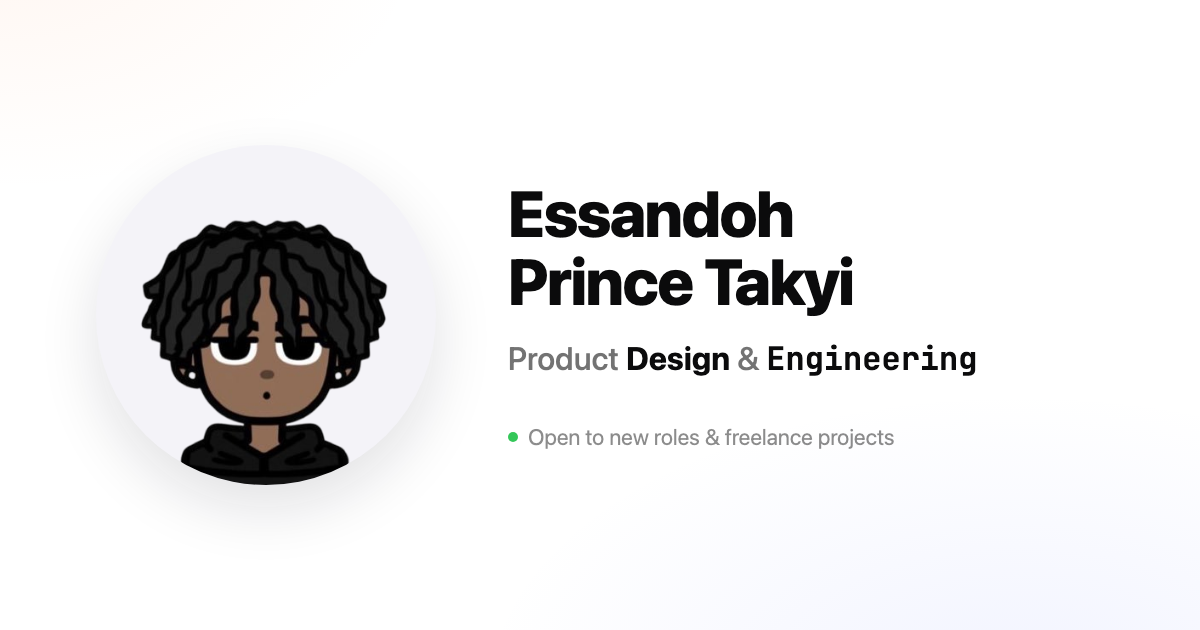
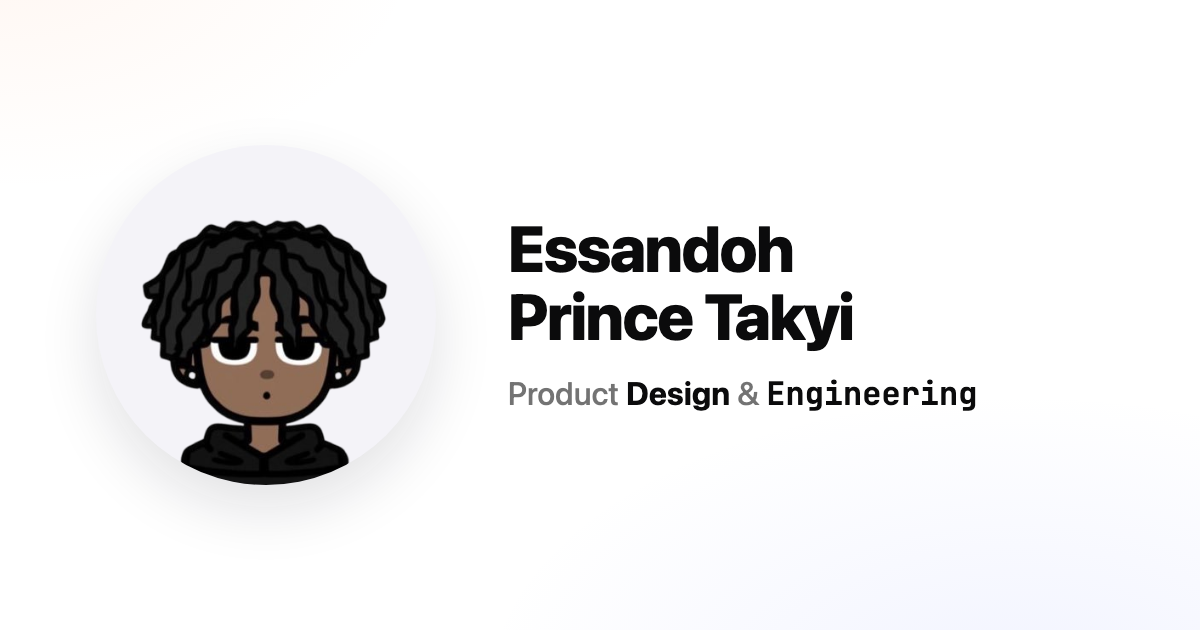
Faster first videos, phone loading shimmer, simpler preview card
- First-row phone videos buffer during the splash (splash waits for them, still capped at 3.5s); other videos attach their source only when about a screen away. First videos playing: 8.2s -> 4.0s on 20 Mbps.
- Shimmer inside phone frames until the video/screenshot's first frame loads
- Link preview image: drop the 'Open to new roles' line

Changed region(s): [[0.4008, 0.3016, 0.8325, 0.7238]]

diff --git a/src/components/ProjectCard.tsx b/src/components/ProjectCard.tsx
@@ -4,8 +4,10 @@ import FlipStack from './FlipStack'
 import ProjectLinkIcon, { getProjectLinkTooltip } from './ProjectLinkIcon'
 import type { Project } from '../types/project'
 
-/** Muted looping screen recording that only downloads/plays while on screen,
- * so a page full of cards doesn't stream every video at once. */
+/** Muted looping screen recording. `eager` ones (the first screen) start
+ * buffering immediately, i.e. while the splash is still up; the rest attach
+ * their source only once they're about a screen away, so a page full of
+ * cards doesn't fight the first videos for bandwidth. Plays while visible. */
 function DemoVideo({
   src,
   poster,
@@ -13,7 +15,9 @@ function DemoVideo({
   onAspect,
   loop = true,
   onEnded,
+  eager = false,
 }: {
+  eager?: boolean
   src: string
   poster?: string
   className?: string
@@ -23,9 +27,17 @@ function DemoVideo({
   onEnded?: () => void
 }) {
   const ref = useRef<HTMLVideoElement>(null)
+  const [near, setNear] = useState(eager)
   useEffect(() => {
     const el = ref.current
-    if (!el) return
+    if (!el || near) return
+    const io = new IntersectionObserver(([e]) => e.isIntersecting && setNear(true), { rootMargin: '100% 0px' })
+    io.observe(el)
+    return () => io.disconnect()
+  }, [near])
+  useEffect(() => {
+    const el = ref.current
+    if (!el || !near) return
     const observer = new IntersectionObserver(
       ([entry]) => {
         if (entry.isIntersecting) el.play().catch(() => {})
@@ -35,14 +47,17 @@ function DemoVideo({
     )
     observer.observe(el)
     return () => observer.disconnect()
-  }, [])
+  }, [near])
   return (
     <video
       ref={ref}
       className={className}
-      src={src}
+      src={near ? src : undefined}
       poster={poster}
-      preload="metadata"
+      preload={eager ? 'auto' : 'metadata'}
+      data-eager={eager || undefined}
+      // Marks the frame loaded so the phone's shimmer fades out (CSS :has).
+      onLoadedData={(e) => e.currentTarget.classList.add('is-ready')}
       onLoadedMetadata={(e) => {
         const v = e.currentTarget
         if (v.videoWidth && v.videoHeight) onAspect?.(v.videoWidth / v.videoHeight)
@@ -71,8 +86,11 @@ let uid = 0
 export default function ProjectCard({
   project,
   onOpen,
+  eager = false,
 }: {
   project: Project
+  /** First-screen card: buffer its video right away (during the splash). */
+  eager?: boolean
   /** Desktop-only: opens the full detail overlay at the currently shown screenshot. */
   onOpen?: (initialIndex: number) => void
 }) {
@@ -361,7 +379,7 @@ export default function ProjectCard({
         ) : project.demoVideo && project.platform === 'mobile' ? (
           <div className="app-card-phone-wrap">
             <div className="app-card-phone-frame app-card-phone-frame--device app-card-device">
-              <DemoVideo src={project.demoVideo} poster={project.demoPoster ?? project.images[0]} />
+              <DemoVideo src={project.demoVideo} poster={project.demoPoster ?? project.images[0]} eager={eager} />
               <span className="app-card-device-buttons" aria-hidden="true" />
             </div>
           </div>
@@ -401,6 +419,7 @@ export default function ProjectCard({
                   className={i === index ? 'is-current' : ''}
                   loading={i === 0 ? 'eager' : 'lazy'}
                   decoding="async"
+                  onLoad={(e) => e.currentTarget.classList.add('is-ready')}
                 />
               ))}
               <span className="app-card-device-buttons" aria-hidden="true" />

diff --git a/src/styles/profile.css b/src/styles/profile.css
@@ -584,6 +584,35 @@ a:focus-visible > .roll .roll-bottom {
   object-fit: fill;
 }
 
+/* Loading shimmer over the screen until its first frame is in (the video
+   or screenshot gets .is-ready on load). Sits under the Dynamic Island. */
+.project-grid--mobile .app-card .app-card-device::before {
+  content: '';
+  position: absolute;
+  z-index: 3;
+  inset: var(--bezel);
+  border-radius: calc(var(--phone-w) * 0.149);
+  background:
+    linear-gradient(100deg, transparent 30%, rgba(255, 255, 255, 0.75) 50%, transparent 70%) -150% 0 / 60% 100% no-repeat,
+    #ececef;
+  animation: phone-shimmer 1.3s ease-in-out infinite;
+  pointer-events: none;
+  transition: opacity 0.45s ease;
+}
+
+.project-grid--mobile .app-card .app-card-device:has(> video.is-ready, > img.is-current.is-ready)::before {
+  opacity: 0;
+  animation: none;
+}
+
+@keyframes phone-shimmer {
+  to { background-position: 250% 0, 0 0; }
+}
+
+@media (prefers-reduced-motion: reduce) {
+  .project-grid--mobile .app-card .app-card-device::before { animation: none; }
+}
+
 /* Dynamic Island */
 .project-grid--mobile .app-card .app-card-device::after {
   content: '';

diff --git a/src/components/LoadingScreen.tsx b/src/components/LoadingScreen.tsx
@@ -89,7 +89,12 @@ export default function LoadingScreen() {
       if (cancelled) return
       const elapsed = performance.now() - start
       const timeProgress = Math.min(1, elapsed / MIN_TYPE_MS)
-      const assetsReady = loaded >= total
+      // ...and the first-row videos can actually start playing (they buffer
+      // behind the splash; see DemoVideo's `eager`).
+      const videosReady = Array.from(document.querySelectorAll<HTMLVideoElement>('video[data-eager]')).every(
+        (v) => v.readyState >= 3,
+      )
+      const assetsReady = loaded >= total && videosReady
       const timedOut = elapsed >= MAX_WAIT_MS
       // Require the minimum typing duration to actually elapse before
       // completing, even if assets resolve instantly from cache — a fast

diff --git a/src/components/Profile.tsx b/src/components/Profile.tsx
@@ -124,10 +124,12 @@ export default function Profile({
     const empty = Math.max(0, MIN_CARDS[platform] - list.length)
     return (
       <div className={`project-grid project-grid--${platform}`}>
-        {list.map((project) => (
+        {list.map((project, i) => (
           <div key={project.id} className="project-card">
             <ProjectCard
               project={project}
+              // The first row of phones is what the splash reveals.
+              eager={platform === 'mobile' && i < 2}
               onOpen={(index) =>
                 (project.id === 'uzeka' || project.id === 'gas-app' || project.id === 'gears') && onNavigate
                   ? onNavigate(project.id)
